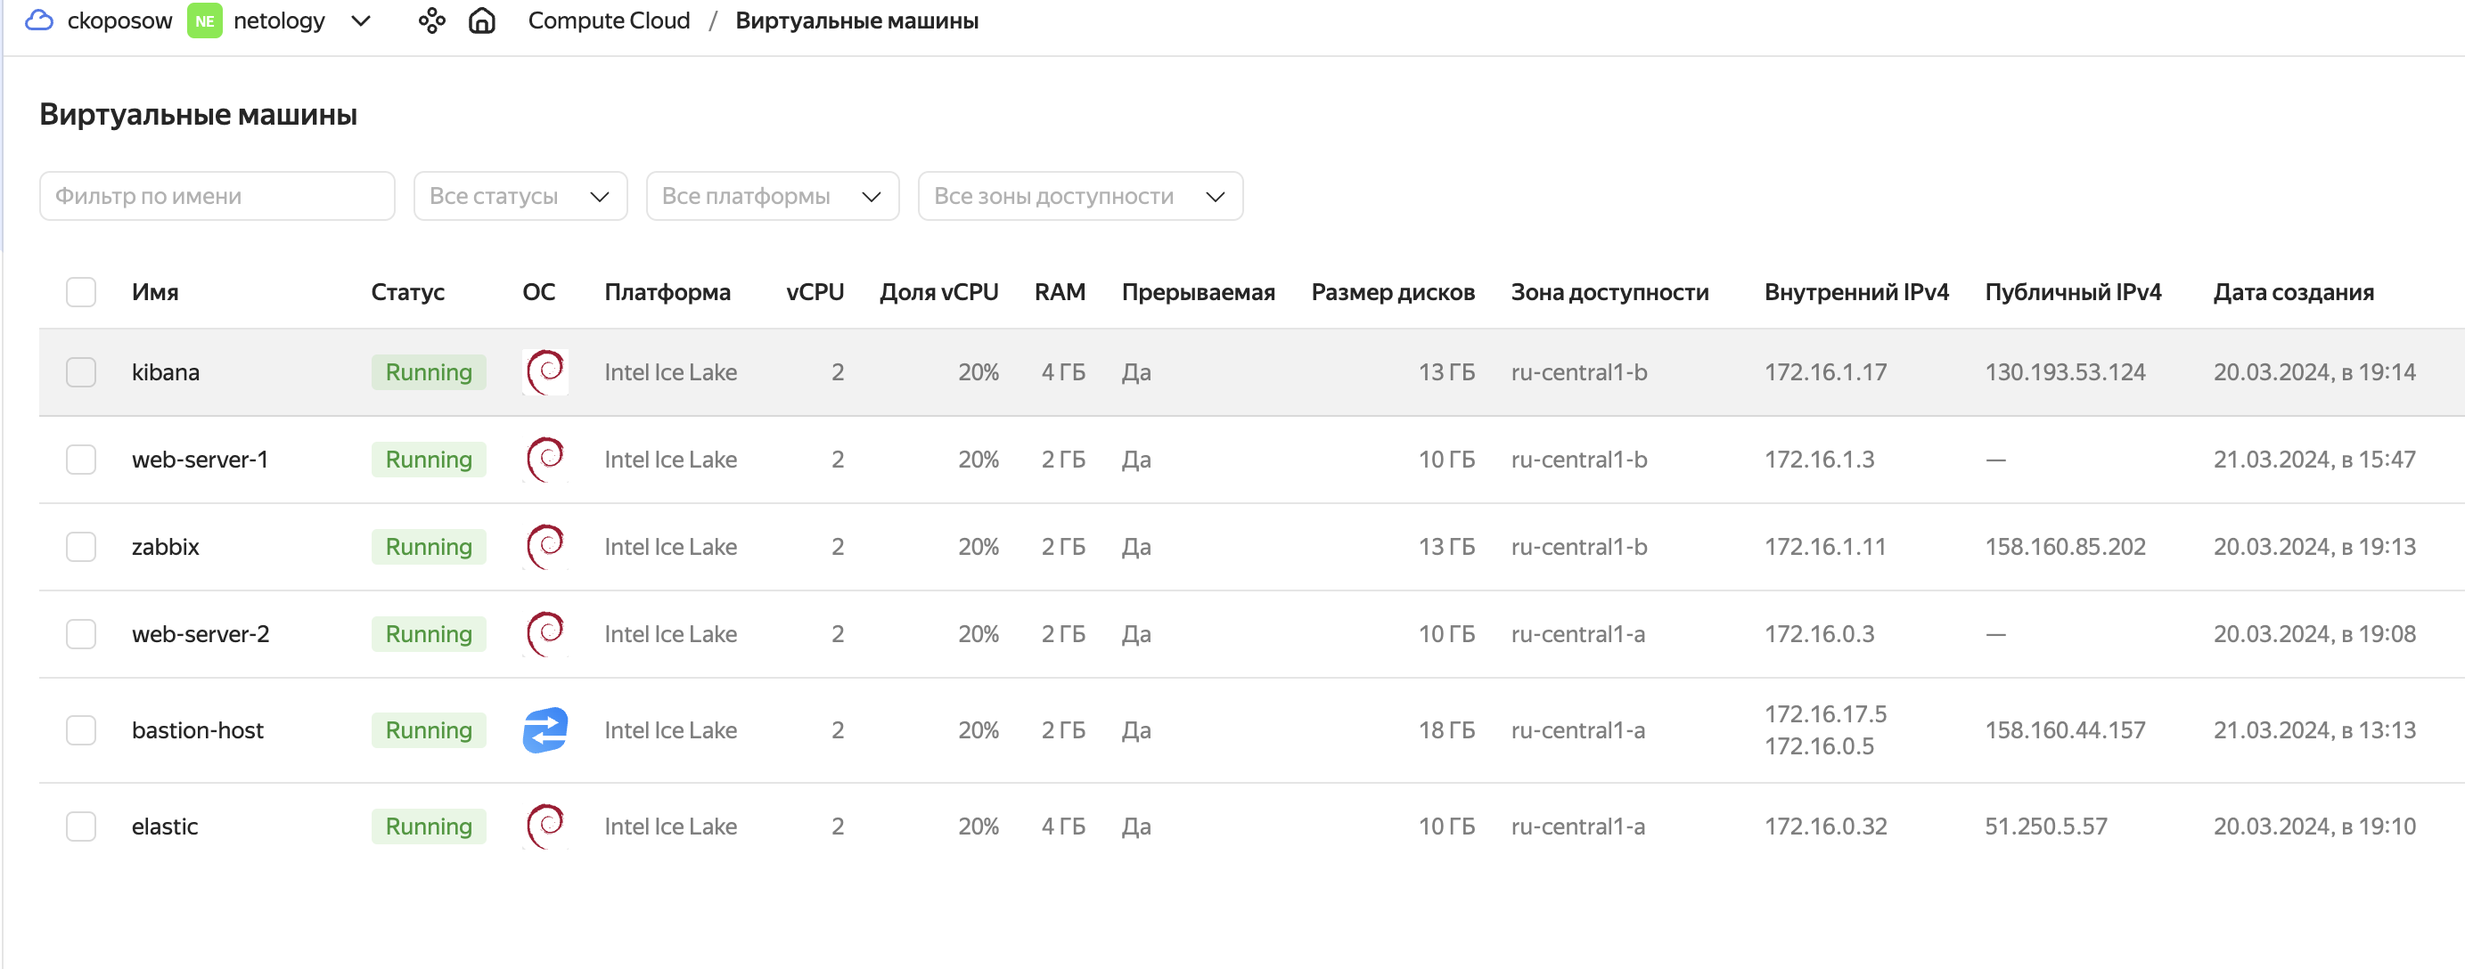
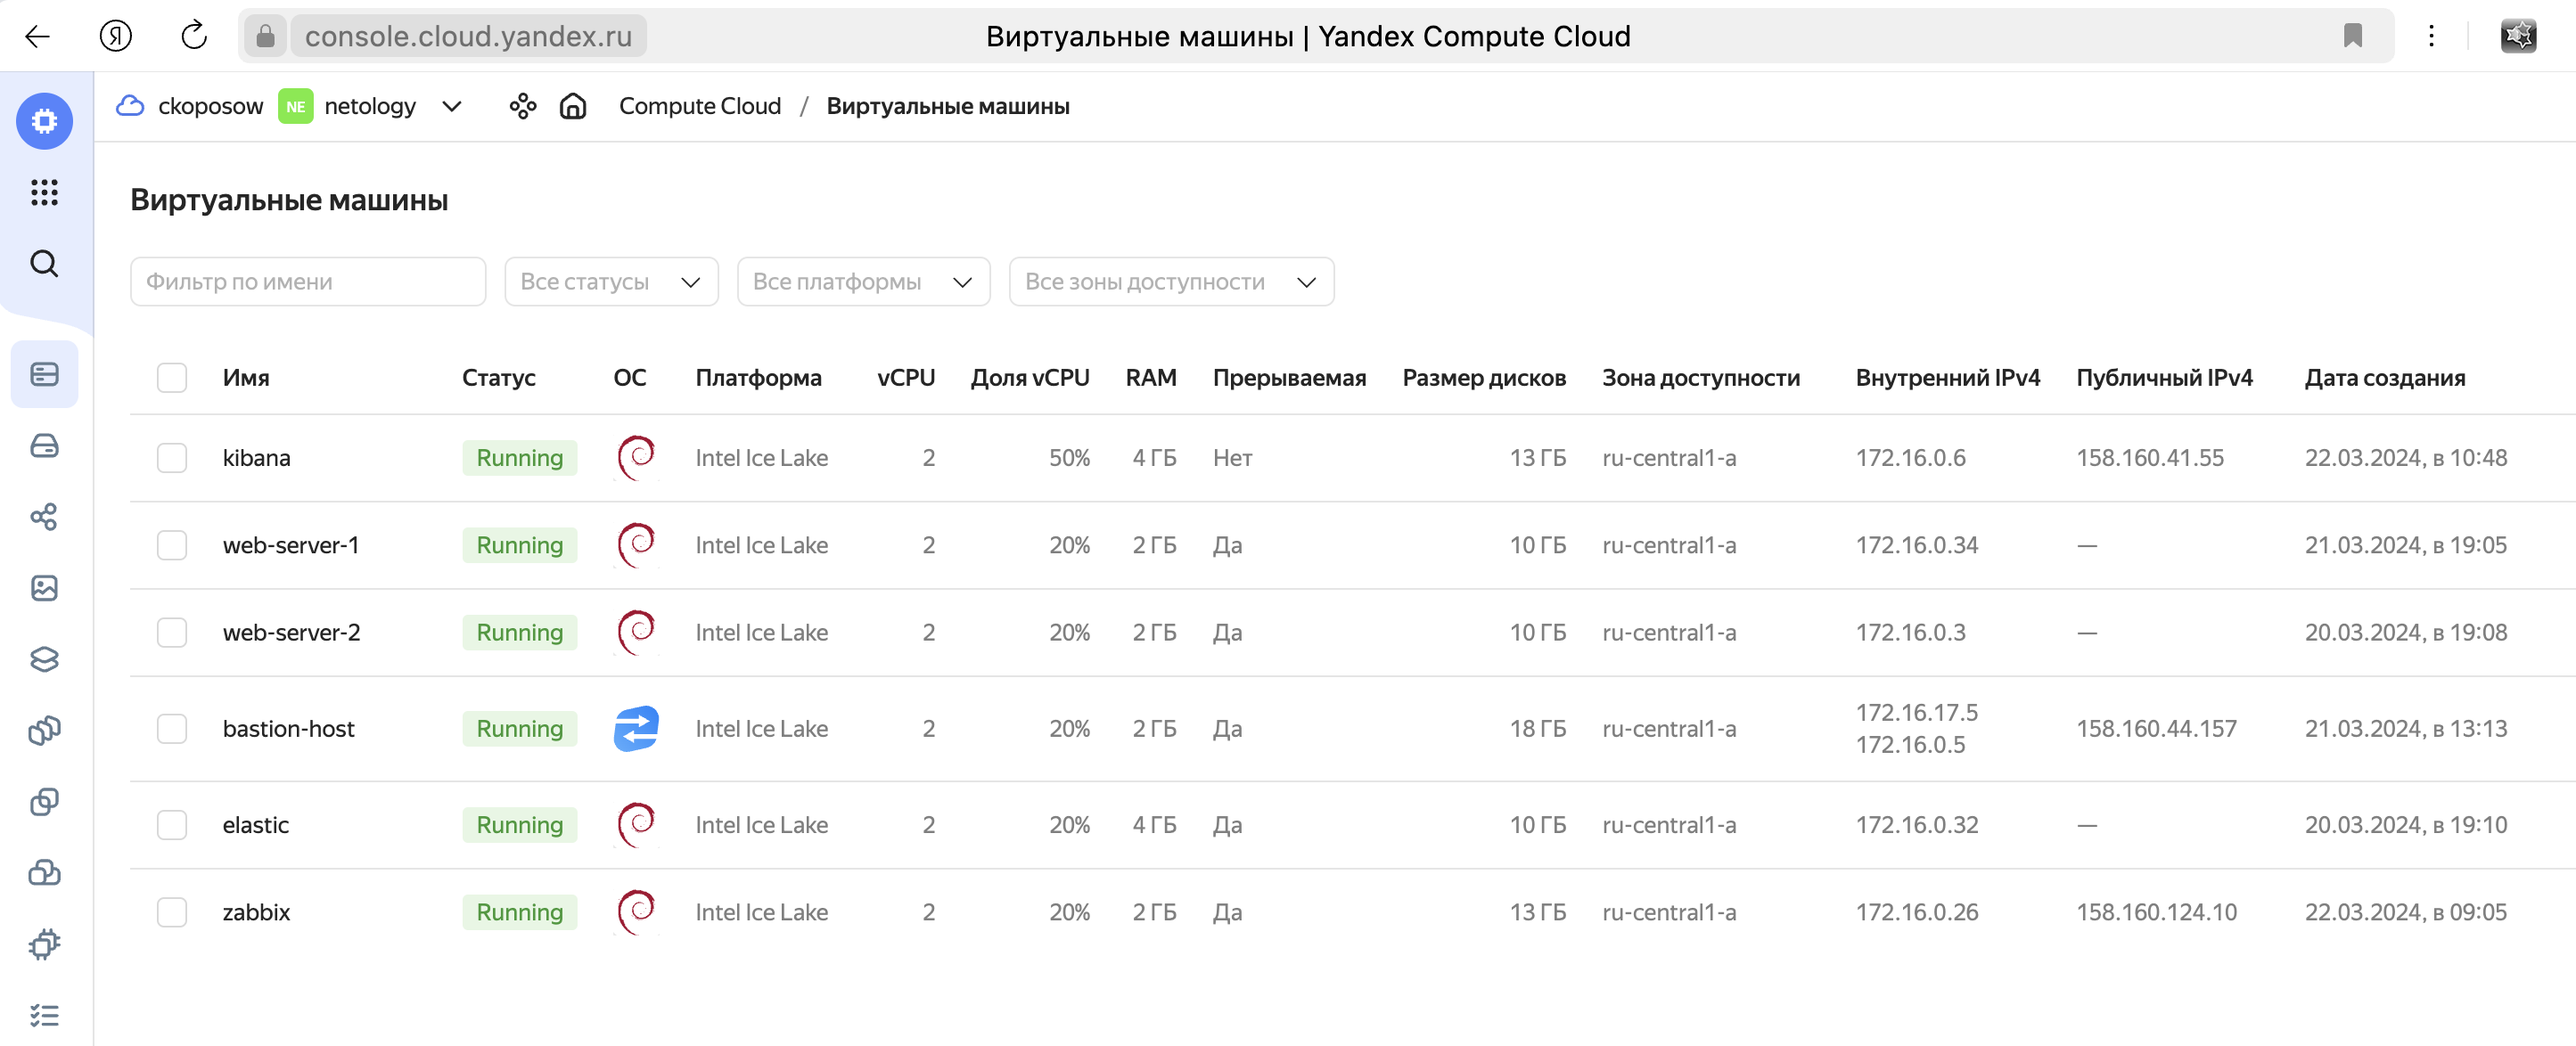
Доработка для отправки на проверку 1

diff --git a/README.md b/README.md
@@ -106,12 +106,19 @@ Cоздайте ВМ, разверните на ней Elasticsearch. Устан
 
 ![private-public](./files/public-privat.png)
 
+Группы безопасности
+
+![Группы безопасности](./files/group_securiti.png)
+
 К сожалению, в первом задании нужно было разнести web-сервера по разным зонам, но тогда при выполнении задания с джампом не получается создать таблицу маршрутизации. Вот что про написано в документации: 
 "Таблица маршрутизации VPC создается внутри облачной сети и может быть применена в любой ее подсети. Применить таблицу маршрутизации к подсетям из другой облачной сети не получится."
 Также, при создании ВМ были задействованы дистрибутивы, которые не позволяют сделать дополнительный сетевой интерфейс. Поэтому я принял решение вернуть вторую ВМ с web-сервером в единую зону доступности. Причем сделать можно только удалением и созданием из snapshot:
 "Сейчас миграция ВМ и дисков с помощью команды relocate возможна только в зону ru-central1-d из любой другой зоны."
 
 
+Решение по ansible
+
+![ansible](./files/ansible_to_web.png)
 
 ### Резервное копирование
 Создайте snapshot дисков всех ВМ. Ограничьте время жизни snaphot в неделю. Сами snaphot настройте на ежедневное копирование.
@@ -119,10 +126,6 @@ Cоздайте ВМ, разверните на ней Elasticsearch. Устан
 задание было сделано в разделе  "Сеть"
 ![snapshot](./files/snapshot.png)
 
-
-Решение по ansible
-
-![ansible](./files/ansible_to_web.png)
 
 ### Дополнительно
 Не входит в минимальные требования. 
